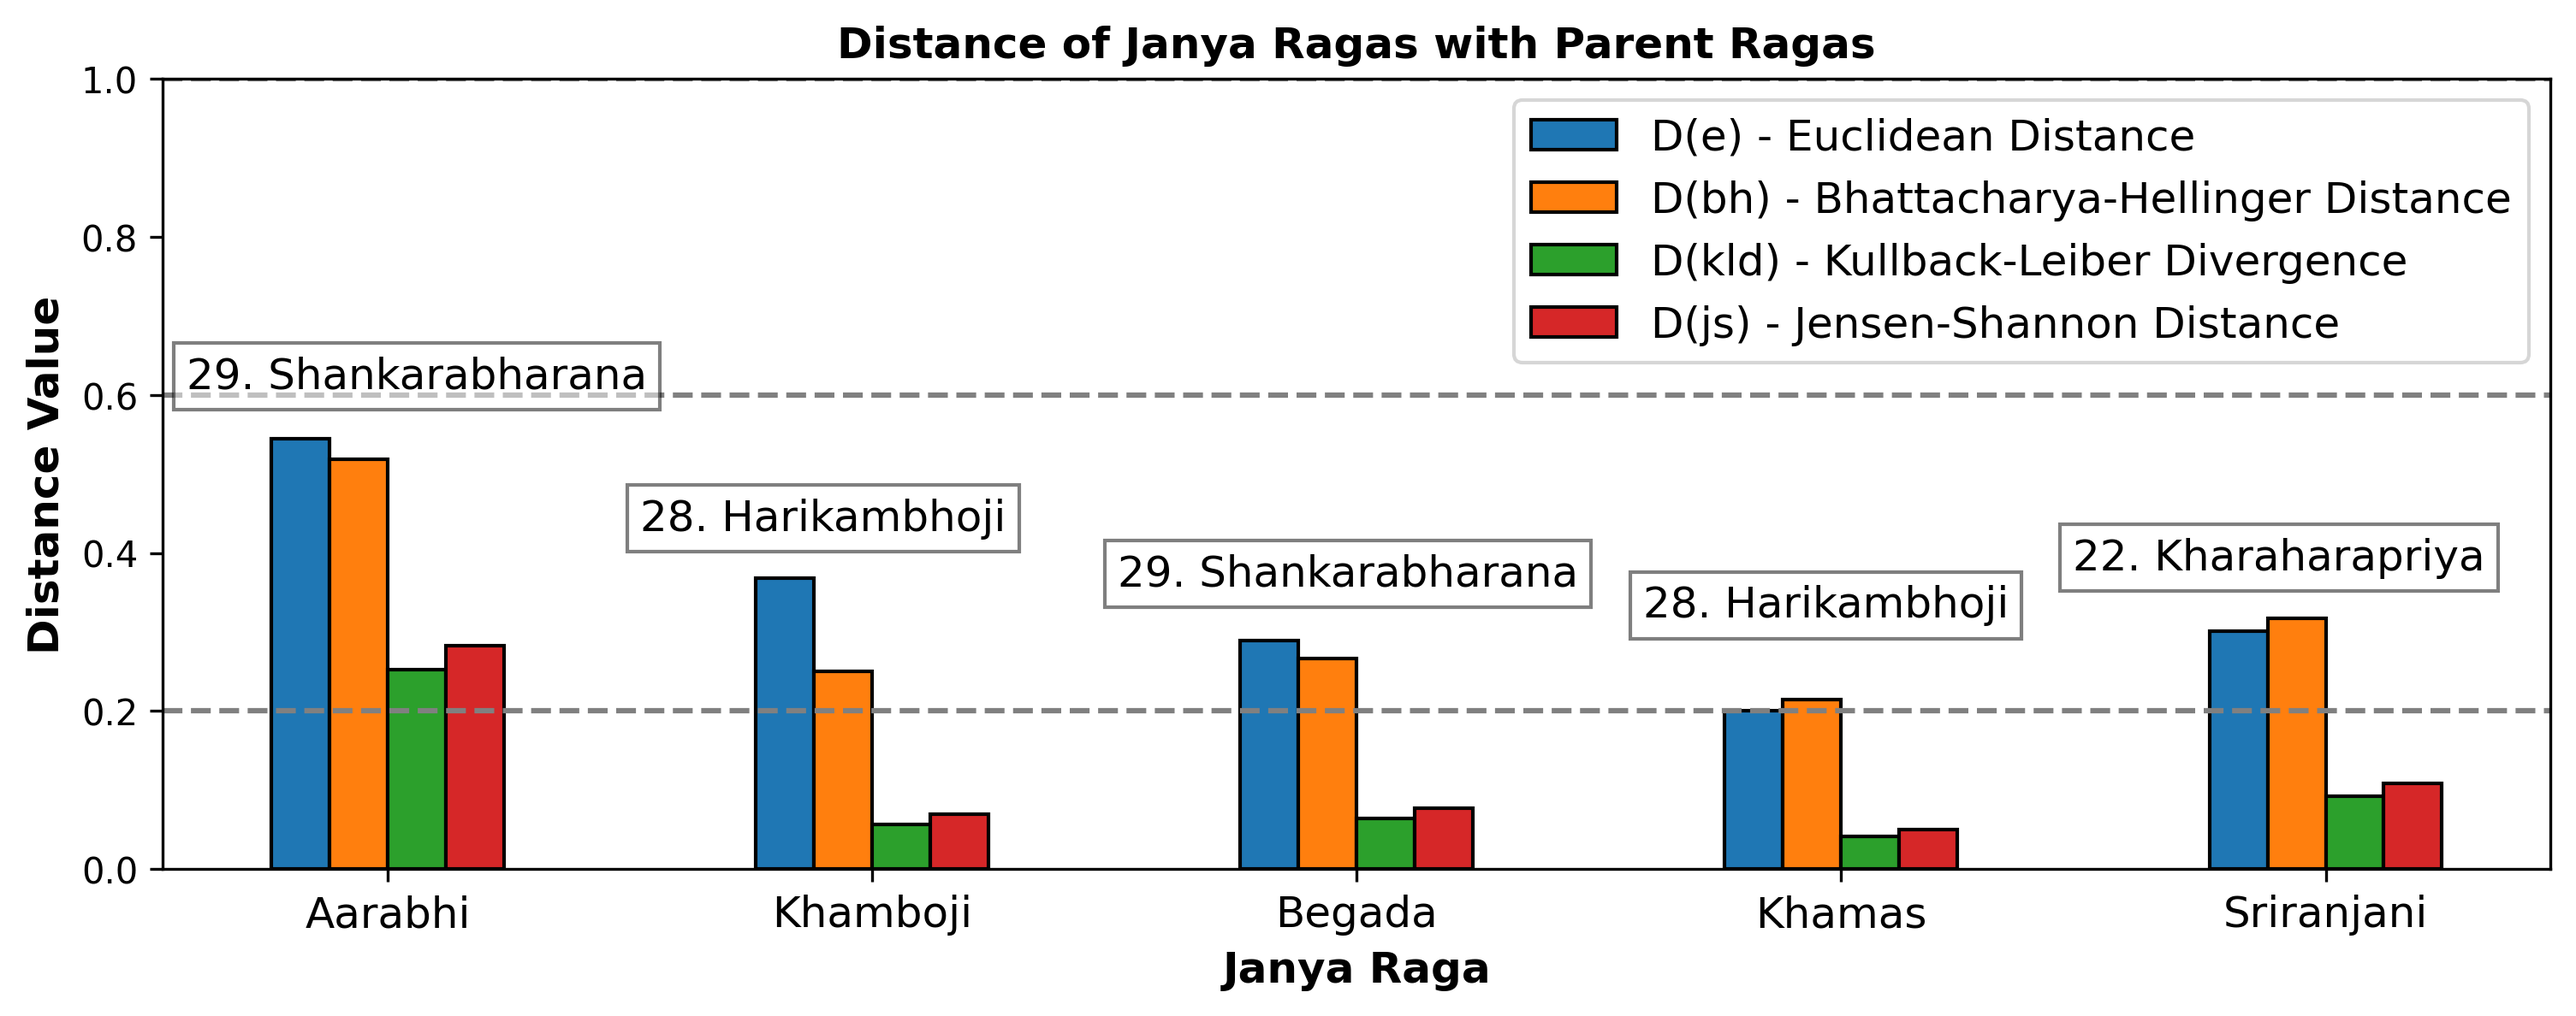
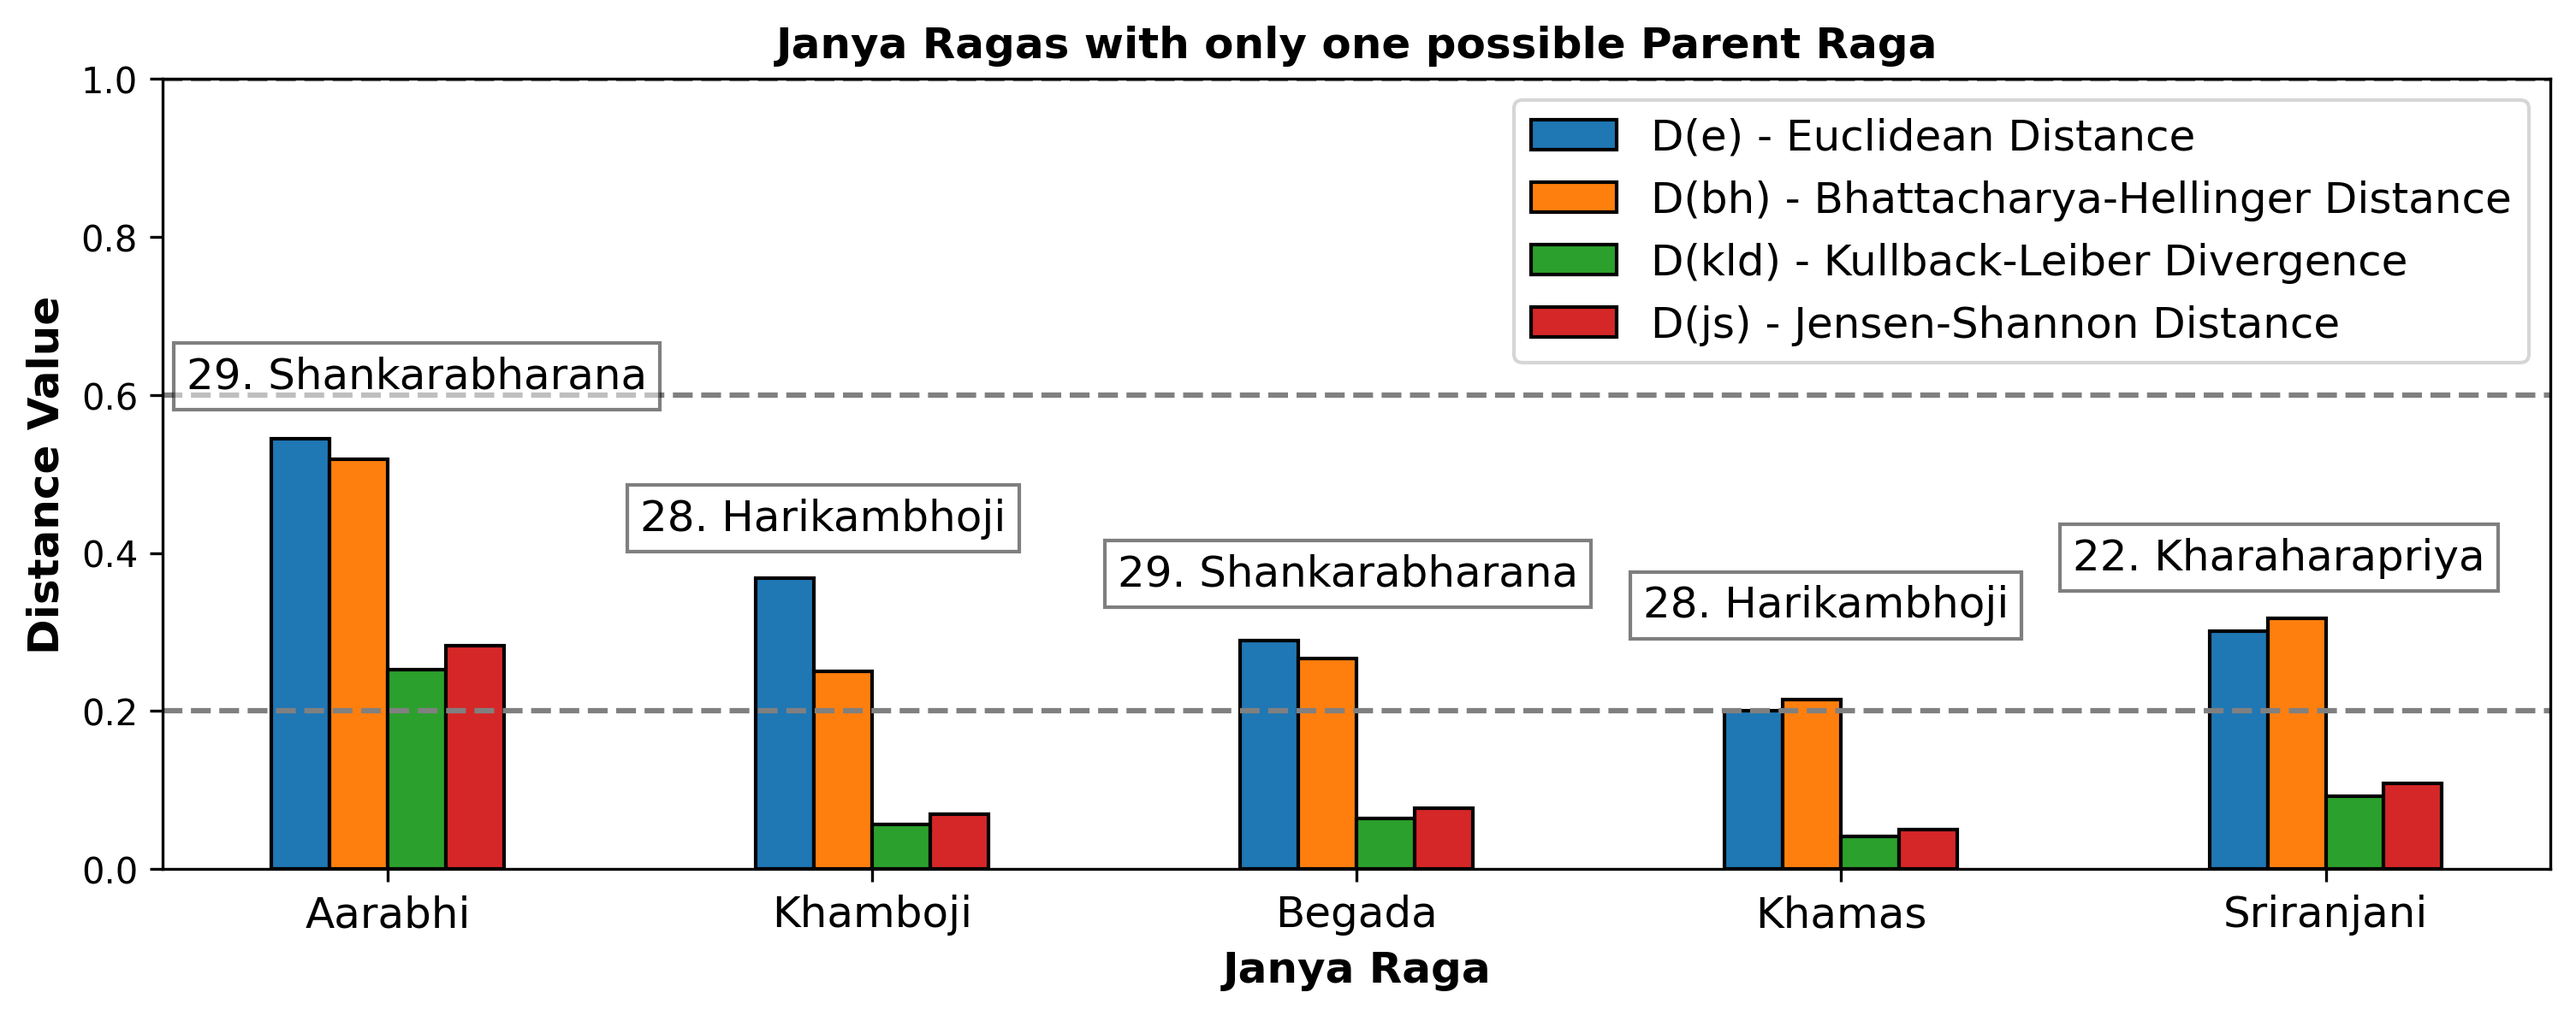
plot change.

Changed region(s): [[0.2811, 0.0311, 0.7495, 0.0623]]

diff --git a/plot_tables_v5.py b/plot_tables_v5.py
@@ -191,7 +191,7 @@ def plot_figure(barWidth, height, width, sym_list, color_list, color_flag, janak
         if not Raga_name == None:
                 plt.title(f'Distance of Raga {Raga_name} with Parent Ragas', fontweight ='bold', fontsize = 12)
         else:
-                plt.title(f'Distance of Janya Ragas with Parent Ragas', fontweight ='bold', fontsize = 12)
+                plt.title(f'Janya Ragas with only one possible Parent Raga', fontweight ='bold', fontsize = 12)
         # Adding Xticks
         
         plt.xlabel('Janya Raga', fontweight ='bold', fontsize = 12)
